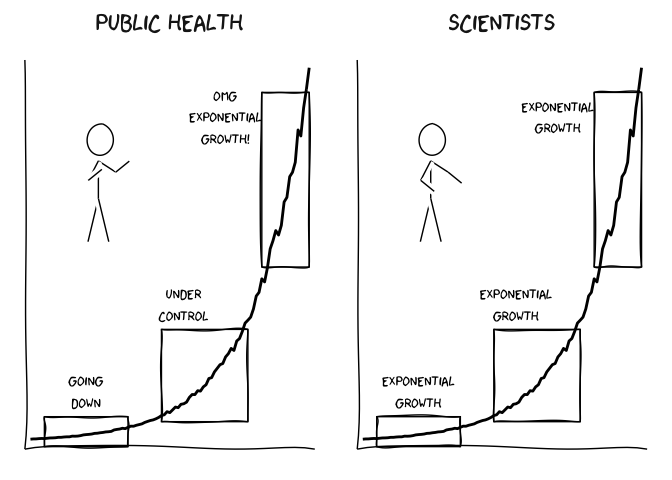
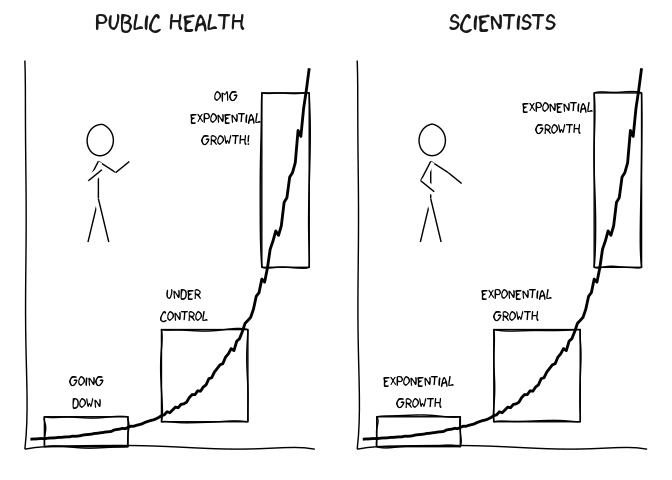
update, omicron version

diff --git a/README.md b/README.md
@@ -73,3 +73,64 @@ ggplot(data) +
 ```
 
 ![](README_files/figure-gfm/xkcd_exponential-1.png)<!-- -->
+
+## Omicron version
+
+``` r
+library(tidyverse)
+library(xkcd)
+
+set.seed(123)
+
+data <- tibble(x=seq(0,100)) %>%
+  mutate(y=exp(0.05*x)) %>%
+  mutate(xend=lead(x),
+         yend=lead(y)) %>%
+  mutate(yy=y*runif(nrow(.),0.95,1.05)) %>%
+  mutate(wt=50*exp(-0.01*x)**runif(nrow(.),0.95,1.05))
+
+# boxes for highlighting different "phases" of exponential growth
+boxes <- bind_rows(
+  tibble(xmin=5,xmax=35,ymin=-2,ymax=10,x=20,y=20, name = "l2",value="Omicron"),
+  tibble(xmin=47,xmax=75,ymin=8,ymax=38,x=58,y=35, name = "l2",value="Omicron"),
+  tibble(xmin=83,xmax=100,ymin=70,ymax=150,x=70,y=130, name = "l2",value="Omicron"),
+  tibble(xmin=5,xmax=35,ymin=35,ymax=55,x=20,y=65, name = "l1",value="We are\ndifferent"),
+  tibble(xmin=47,xmax=78,ymin=35,ymax=75,x=58,y=65, name = "l1",value="But it's\nnmilder"),
+  tibble(xmin=83,xmax=100,ymin=70,ymax=150,x=70,y=130, name = "l1",value="OMG\nOmicron!"),
+) 
+
+# stick men for decoration
+ratioxy=0.8
+dataman <- data.frame( x= 25, y=120,
+                       scale = 15 ,
+                       ratioxy = ratioxy,
+                       angleofspine =  -pi/2  ,
+                       anglerighthumerus = c(-pi/6, -pi/6),
+                       anglelefthumerus = c(-pi/2 - pi/6, -pi/2 - pi/6),
+                       anglerightradius = c(pi/5, -pi/5),
+                       angleleftradius = c(pi/5, -pi/5),
+                       angleleftleg = 3*pi/2  + pi / 12 ,
+                       anglerightleg = 3*pi/2  - pi / 12,
+                       angleofneck = runif(1, 3*pi/2-pi/10, 3*pi/2+pi/10),
+                       name=c("l1","l2"))
+mapping <- aes(x,  y,
+                scale,ratioxy,angleofspine,
+               anglerighthumerus,anglelefthumerus,anglerightradius,
+               angleleftradius,angleleftleg,anglerightleg,angleofneck)
+
+ggplot(data) +
+  geom_line(aes(x=x,y=yy+wt),size=1) +
+  geom_line(aes(x=x,y=yy),size=0.5,linetype="dashed") +
+  scale_x_continuous(breaks=NULL,minor_breaks = NULL) +
+  scale_y_continuous(breaks=NULL,minor_breaks = NULL) +
+  theme_xkcd() +
+  theme(strip.text = element_text(size = 20)) +
+  xkcdaxis(xrange=c(0,100),yrange=c(0,150)) +
+  xkcdrect(data=boxes,aes(xmin=xmin,xmax=xmax,ymin=ymin,ymax=ymax),colour="black",fill=NA) +
+  geom_text(data=boxes,aes(x=x,y=y,label=value),family="xkcd",size=4) +
+  xkcdman(mapping,dataman) +
+  labs(x=NULL,y=NULL) +
+  facet_wrap("name",labeller = as_labeller(c(l1="Public Health",l2="Scientists")))
+```
+
+![](README_files/figure-gfm/xkcd_omicron-1.png)<!-- -->
